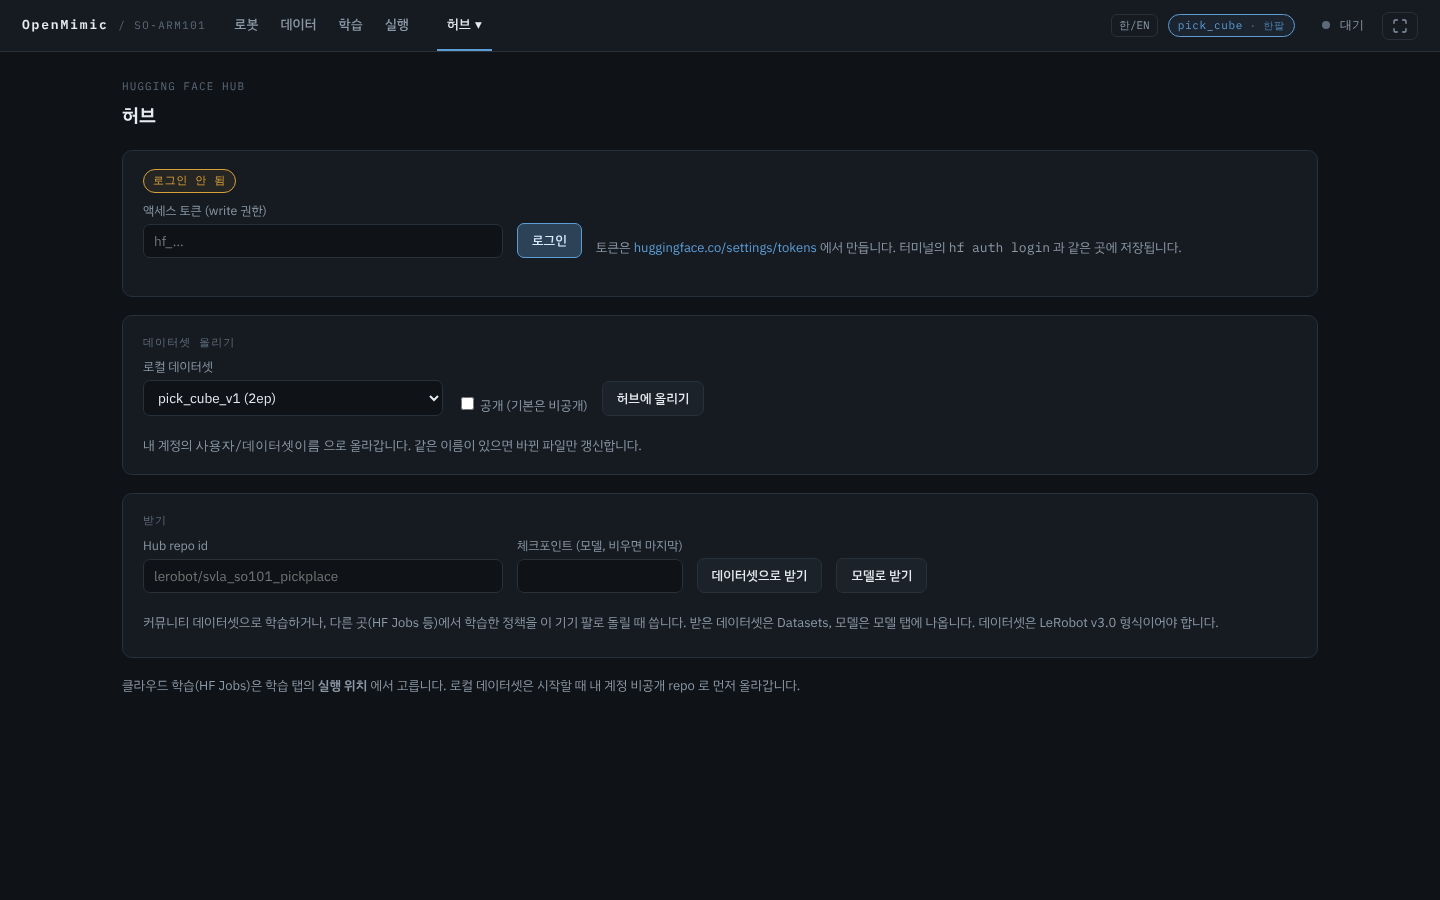
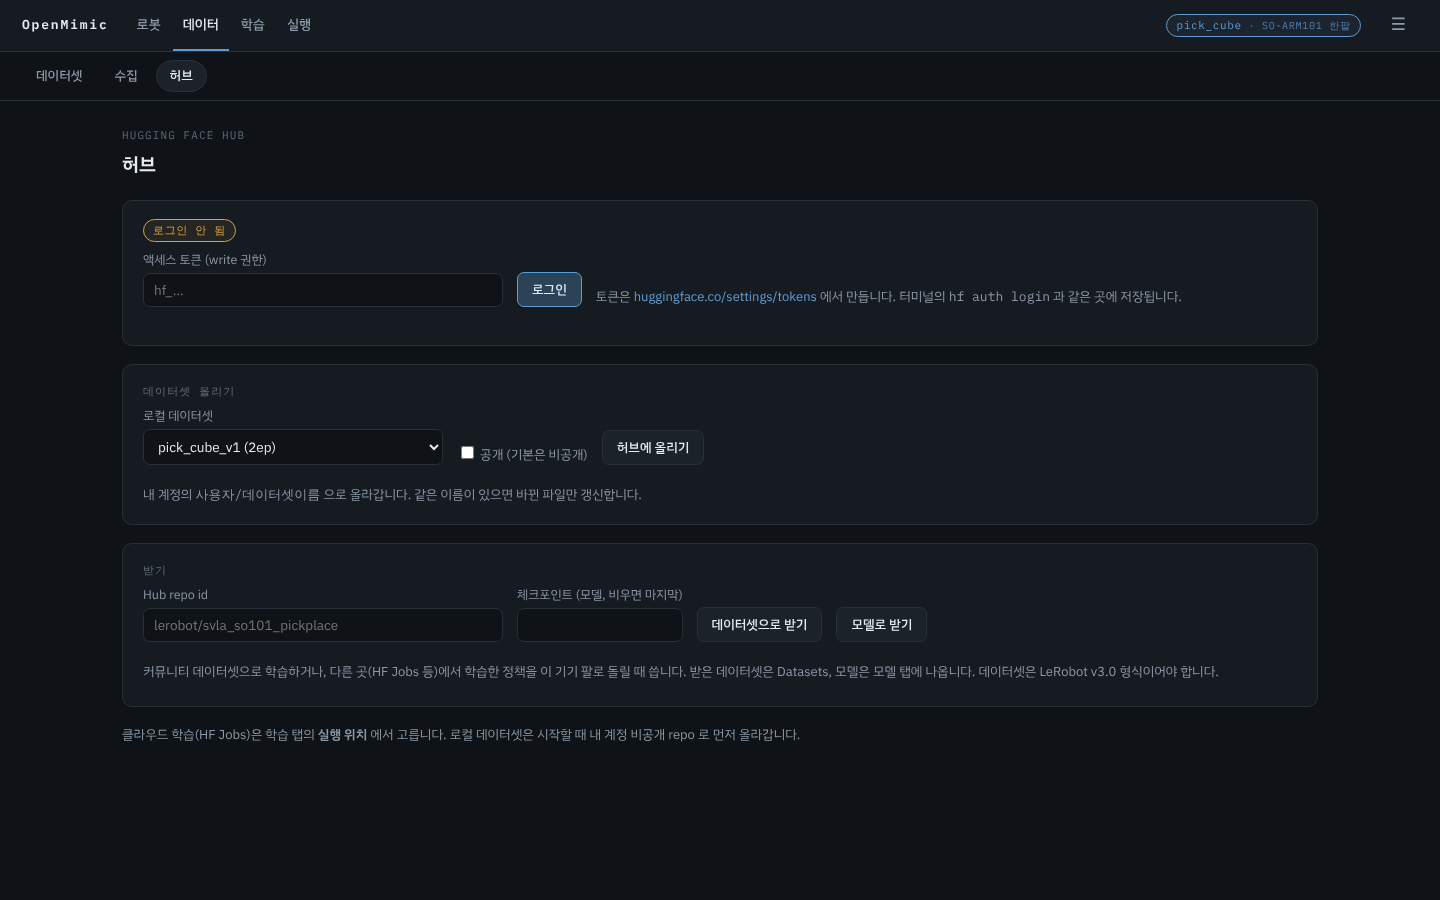
상단바 정리: 오른쪽은 프로젝트 칩과 ☰ 메뉴만, 허브는 데이터 하위 탭으로
- 한/EN 버튼·전체화면 버튼·더보기 메뉴를 오른쪽 끝 ☰ 메뉴 하나로 합침 (프로젝트 · 작업 · 한국어/English · 전체화면)
- 기종 표시를 브랜드 옆에서 프로젝트 칩 안으로 옮김 (예: pick_cube · SO-ARM101 한팔)
- 대기 중에는 상태 표시를 숨기고, 작업이 돌 때만 '● 작업 이름'(누르면 로그)을 띄움
- 허브는 데이터 › 허브 하위 탭으로 이동
- 문서(GUIDE·DEVELOPMENT)와 스크린샷을 새 상단바로 갱신

Claude-Session: https://claude.ai/code/session_01B6FQN7Hy1CAMPD2WzLQir3

diff --git a/main.py b/main.py
@@ -462,7 +462,7 @@ NAV_EN = {"셋업": "Setup", "캘리브레이션": "Calibration", "제어": "Con
           "정책": "Policy", "배치": "Batch", "step 수": "Steps", "녹화": "Recording", "캘리브레이션": "Calibration",
           # 큰 탭·하위 탭
           "데이터": "Data", "포트·카메라": "Ports & cameras", "새 학습": "New training", "셋업 마법사": "Setup wizard",
-          "끝남": "Done", "실행 중": "Running"}
+          "끝남": "Done", "실행 중": "Running", "전체화면": "Fullscreen"}
 _NAV_RE = re.compile(r'(<span class=(?:tl|jobk)[^>]*>|<h2>|<b class=gsname>|<th[^>]*>|<p class=eyebrow>|<label class=f>'
                      r'|<a class=btnlink [^>]*>|<a href="/[^"]*">)'
                      r'([^<]+?)( ?</span>| ?</h2>| ?</b>| ?</th>| ?</p>| <| ?</a>)')
@@ -2711,6 +2711,12 @@ a{color:var(--accent);text-decoration:none} a:hover{text-decoration:underline}
 .navmenu a{display:block;padding:8px 12px;border-radius:6px;color:var(--muted);font-size:13.5px}
 .navmenu a:hover{background:var(--surface2);color:var(--text);text-decoration:none}
 .navmenu a.on{color:var(--text)}
+.appmenu>summary{font-size:17px;padding:0 12px;font-family:var(--sans)}
+.appmenu .navmenu{left:auto;right:0;min-width:180px}
+.navmenu button{display:block;width:100%;text-align:left;padding:8px 12px;border:0;border-radius:6px;background:transparent;
+  color:var(--muted);font-size:13.5px;font-weight:400;cursor:pointer}
+.navmenu button:hover{background:var(--surface2);color:var(--text)}
+.statuscluster .jobtxt{display:inline-flex;align-items:center;gap:6px}
 .nav a{display:flex;align-items:center;padding:0 14px;color:var(--muted);
   border-bottom:2px solid transparent;font-weight:500;font-size:13.5px}
 .nav a:hover{color:var(--text);text-decoration:none}
@@ -2718,9 +2724,8 @@ a{color:var(--accent);text-decoration:none} a:hover{text-decoration:underline}
 .statuscluster{margin-left:auto;display:flex;align-items:center;gap:10px;flex:0 0 auto;white-space:nowrap;
   font-family:var(--mono);font-size:12px;color:var(--muted)}
 .statuscluster a.chip{display:inline-flex;align-items:center;gap:5px;color:inherit;text-decoration:none}
-.statuscluster a.chip .badge{max-width:14em;overflow:hidden;text-overflow:ellipsis;white-space:nowrap}
+.statuscluster a.chip .badge{max-width:24em;overflow:hidden;text-overflow:ellipsis;white-space:nowrap}
 @media(max-width:700px){ .statuscluster a.chip .badge{max-width:6.5em} }
-.fsbtn{flex:0 0 auto}
 .chipsub{opacity:.75;font-size:.92em}
 button.fixbadge{cursor:pointer;font:inherit;font-size:11px;padding:2px 8px;line-height:1.4}
 button.fixbadge:hover{filter:brightness(1.25)}
@@ -2744,8 +2749,6 @@ button.fixbadge:hover{filter:brightness(1.25)}
 .warnbar{background:rgba(217,161,59,.12);border-bottom:1px solid rgba(217,161,59,.5);color:var(--warn);
   padding:8px 22px;font-size:13px;line-height:1.5;overflow-wrap:anywhere}
 .jobtxt{color:inherit;overflow:hidden;text-overflow:ellipsis;min-width:0}
-.langbtn{font-family:var(--mono);font-size:11px;color:var(--muted);border:1px solid var(--line);border-radius:6px;padding:2px 7px;text-decoration:none}
-.langbtn:hover{color:var(--text);border-color:var(--accent);text-decoration:none}
 @media(max-width:1600px){ .statuscluster .jobid{display:none} .nav a{padding:0 10px} .appbar{gap:18px} }
 @media(max-width:1350px){ .nav a{padding:0 8px} }
 @media(max-width:1300px) and (min-width:821px){ .brand small{display:none} .nav a{padding:0 6px;font-size:13px}
@@ -2876,9 +2879,6 @@ a.btnlink.primary{background:var(--accent-dim);border-color:var(--accent);color:
   th,td{padding:8px 9px}
   th{white-space:nowrap}
 }
-.fsbtn{padding:5px 9px;font-size:15px;line-height:1;background:transparent;
-  border-color:var(--line);color:var(--muted);display:inline-flex;align-items:center}
-.fsbtn:hover{color:var(--text);border-color:var(--accent)}
 </style>
 <script>
 document.addEventListener('click',function(e){
@@ -2930,37 +2930,32 @@ def row_menu(items):
 NAV_GROUPS = [
     ("robot", "로봇", "/setup", [("/setup/wizard", "셋업 마법사", "wz"), ("/setup", "포트·카메라", "st"),
                                  ("/calib", "캘리브레이션", "cb"), ("/control", "제어", "ct")]),
-    ("data", "데이터", "/", [("/", "데이터셋", "ds"), ("/collect", "수집", "co")]),
+    ("data", "데이터", "/", [("/", "데이터셋", "ds"), ("/collect", "수집", "co"), ("/hub", "허브", "hb")]),
     ("train", "학습", "/train", [("/train", "새 학습", "tr"), ("/models", "모델", "md")]),
     ("run", "실행", "/rollout", [("/rollout", "실행", "ro")]),
 ]
 
 
 def nav_html(active=""):
+    """상단바: 브랜드 · 큰 탭 4개 | 열린 프로젝트 칩 · (문제일 때만) 포트 미설정 · (실행 중일 때만) 작업 표시 · ☰ 메뉴.
+    프로젝트 목록은 칩, 작업 목록·한/영·전체화면은 ☰ 메뉴, 허브는 데이터 › 허브 하위 탭에 있습니다."""
     running = [j for j in jobs_index() if j["alive"] and j["kind"] != "sim"]     # 예전 판의 가상 장치 작업은 숨김
     if any_arm_connected():
         running = [{"id": "manual-control", "kind": "control"}] + running
-    if running:
+    pname, _ = active_project()
+    arms = "양팔" if BIMANUAL else "한팔"
+    right = (f'<a href="/projects" class=chip title="열린 프로젝트 — 누르면 프로젝트 목록 (장비 구성: {esc(env_name())})">'
+             f'<span class="badge{" b-run" if pname else ""}">{esc(pname) if pname else "프로젝트 없음"}'
+             f'<span class=chipsub> · {esc(kind()["label"])} {arms}</span></span></a>')
+    if not ports_configured():         # 문제가 있을 때만 뜨는 칩
+        right += '<a href="/setup/wizard" title="셋업 마법사에서 포트를 정하세요"><span class="badge b-warn">포트 미설정</span></a>'
+    if running:                        # 대기 중에는 아무것도 띄우지 않습니다
         j = running[0]
         extra = f' +{len(running) - 1}' if len(running) > 1 else ''
         label = JOB_KIND_LABEL.get(j["kind"], j["kind"])
-        cluster = (f'<div class=statuscluster><span class="dot live"></span>'
-                   f'<a href="/jobs/{esc(j["id"])}" class=jobtxt title="실행 중인 작업 — {esc(j["id"])}">'
-                   f'<span class=jobk>{esc(label)}</span><span class=jobid> · {esc(j["id"])}</span>{extra}</a></div>')
-    else:
-        cluster = '<div class=statuscluster><span class=dot></span><span class=jobk title="실행 중인 작업 없음">대기</span></div>'
-    pname, _ = active_project()
-    # 상단 칩은 '지금 무엇을 열었나' 하나만 — 프로젝트(= 장비 구성 한 벌). 한팔/양팔은 그 안에 작게, 환경 이름은 툴팁에만.
-    arms = "양팔" if BIMANUAL else "한팔"
-    mode_badge = (f'<a href="/projects" class=chip title="열린 프로젝트 — 누르면 프로젝트 목록 (장비 구성: {esc(env_name())})">'
-                  f'<span class="badge{" b-run" if pname else ""}">{esc(pname) if pname else "프로젝트 없음"}'
-                  f'<span class=chipsub> · {arms}</span></span></a> ')
-    if I18N_FILE.is_file():            # 영어 사전이 있을 때만 한/영 버튼
-        mode_badge = '<a href="/lang" class=langbtn title="한국어 / English">한/EN</a> ' + mode_badge
-    if not ports_configured():         # 문제가 있을 때만 뜨는 칩
-        mode_badge += '<a href="/setup/wizard" title="셋업 마법사에서 포트를 정하세요"><span class="badge b-warn">포트 미설정</span></a> '
-    cluster = cluster.replace('<div class=statuscluster>',
-                              f'<div class=statuscluster>{mode_badge}&nbsp;')
+        href = "/jobs" if j["kind"] == "control" else f'/jobs/{esc(j["id"])}'
+        right += (f'<a href="{href}" class=jobtxt title="실행 중인 작업 — {esc(j["id"])}"><span class="dot live"></span>'
+                  f'<span class=jobk>{esc(label)}</span><span class=jobid> · {esc(j["id"])}</span>{extra}</a>')
 
     def tab(href, label, key):
         return f'<a href="{href}"{" class=on" if key == active else ""}><span class=tl>{label}</span></a>'
@@ -2971,18 +2966,15 @@ def nav_html(active=""):
     sub = ""
     if group and len(group[3]) > 1:
         sub = ('<div class=subnav>' + "".join(tab(h, lb, k) for h, lb, k in group[3]) + '</div>')
-    more_items = [("/projects", "프로젝트", "pj"), ("/hub", "허브", "hb"), ("/jobs", "작업", "jb")]
-    cur = next((lb for _, lb, k in more_items if k == active), "")
-    more = (f'<details class=navmore{" data-on=1" if cur else ""}><summary><span class=tl>{cur or "더보기"}</span> ▾</summary><div class=navmenu>'
-            + "".join(f'<a href="{h}"{" class=on" if k == active else ""}><span class=tl>{lb}</span></a>' for h, lb, k in more_items)
-            + '</div></details>')
-    return (f'<div class=appbar><div class=brand>OpenMimic <a href="/setup/wizard" title="기종 바꾸기 — 셋업 마법사"><small>/ {esc(kind()["label"])}</small></a></div>'
-            f'<div class=nav>{tabs}</div>{more}{cluster}'
-            f'<button class=fsbtn title="전체화면" aria-label="전체화면" onclick="toggleFS()">'
-            f'<svg width="16" height="16" viewBox="0 0 24 24" fill="none" stroke="currentColor" '
-            f'stroke-width="2" stroke-linecap="round" stroke-linejoin="round">'
-            f'<path d="M8 3H5a2 2 0 0 0-2 2v3M16 3h3a2 2 0 0 1 2 2v3M8 21H5a2 2 0 0 1-2-2v-3M16 21h3a2 2 0 0 0 2-2v-3"/>'
-            f'</svg></button></div>' + sub
+    items = [f'<a href="{h}"{" class=on" if k == active else ""}><span class=tl>{lb}</span></a>'
+             for h, lb, k in (("/projects", "프로젝트", "pj"), ("/jobs", "작업", "jb"))]
+    if I18N_FILE.is_file():            # 영어 사전이 있을 때만 한/영 전환
+        items.append('<a href="/lang">한국어 / English</a>')
+    items.append('<button type=button onclick="toggleFS()"><span class=tl>전체화면</span></button>')
+    menu = (f'<details class="navmore appmenu"{" data-on=1" if active in ("pj", "jb") else ""}>'
+            f'<summary aria-label="더 보기 메뉴">☰</summary><div class=navmenu>{"".join(items)}</div></details>')
+    return (f'<div class=appbar><div class=brand><a href="/">OpenMimic</a></div>'
+            f'<div class=nav>{tabs}</div><div class=statuscluster>{right}</div>{menu}</div>' + sub
             + (f'<div class=warnbar>{esc(calib_root_warning())}</div>' if calib_root_warning() else ''))
 
 

diff --git a/docs/GUIDE.md b/docs/GUIDE.md
@@ -43,14 +43,14 @@
 | 큰 탭 | 하위 탭 |
 |---|---|
 | 로봇 | 셋업 마법사 · 포트·카메라 · 캘리브레이션 · 제어 |
-| 데이터 | 데이터셋 · 수집 |
+| 데이터 | 데이터셋 · 수집 · 허브 |
 | 학습 | 새 학습 · 모델 |
 | 실행 | — |
-| 더보기 | 프로젝트 · 허브 · 작업 |
 
 - 목록 줄마다 보이는 버튼은 하나뿐이고(예: 모델의 **실행**), 다운로드·내보내기·삭제 같은 나머지는 줄 끝 **⋯** 메뉴에 있습니다
 - 자주 안 쓰는 설정과 긴 설명은 **▸** 로 접혀 있습니다
-- 위 오른쪽 칩은 열린 **프로젝트**(와 한팔/양팔) 하나이고, 포트가 비어 있을 때만 **포트 미설정** 이 더 뜹니다
+- 위 오른쪽에는 열린 **프로젝트** 칩(기종·한팔/양팔 표시, 누르면 프로젝트 목록)과 **☰ 메뉴**(작업 목록 · 한국어/English · 전체화면)만 있습니다.
+  포트가 비어 있으면 **포트 미설정**, 수집·학습 같은 작업이 돌고 있으면 **● 작업 이름**(누르면 로그)이 더 뜹니다
 - 먼저 해야 할 일이 남아 있으면(예: 포트 미설정, 데이터셋 없음) 그 화면의 시작 버튼이 꺼지고 **어디로 가면 되는지 큰 버튼**이 뜹니다
 
 ### 로봇 › 포트·카메라
@@ -156,7 +156,10 @@
 |---|---|
 | ![](img/rollout.png) | ![](img/rollout_live.png) |
 
-### 더보기 — 프로젝트 · 허브 · 작업
+### 프로젝트 · 허브 · 작업
+
+프로젝트는 위 오른쪽 프로젝트 칩, 허브는 **데이터 › 허브**, 작업은 **☰ → 작업** 에서 엽니다.
+
 
 - **프로젝트** — 태스크 하나를 묶는 단위(태스크 설명, 프로젝트 전용 환경, 데이터셋, 모델). 새 프로젝트를 만들면 같은 이름의 빈 환경
   (기종·한팔/양팔만 정하고 포트·카메라는 비움, 캘리브 id 는 `<프로젝트>_follower` 처럼 전용)이 생기고 셋업 마법사로 넘어가 처음부터 연결합니다.
@@ -225,7 +228,7 @@ Intel Core Ultra PC 에서도 셋업·수집·리뷰는 똑같고, **ACT · ACT2
 | 3D 가 안 나옴 | 3D 라이브러리는 레포의 `vendor/` 에 들어 있어 인터넷이 필요 없습니다. 브라우저가 WebGL 을 지원하는지(하드웨어 가속 켜짐) 확인하세요 |
 | 인터넷 없이 쓰기 | 설치가 끝나면 셋업·수집·학습·실행 모두 오프라인으로 됩니다 (설치 때 ACT 의 ResNet18 ImageNet 가중치까지 받아 둠). 처음 한 번 인터넷이 필요한 것은 선택 기능뿐입니다 — SmolVLA 사전학습 모델, ACT2 의 DINOv2 백본, HF Jobs·허브. 웹 글꼴을 못 받으면 시스템 글꼴로 보입니다 |
 | 카메라 여러 대가 끊김 | 로봇 › 포트·카메라 → 카메라 **형식** 을 MJPG 로, 카메라는 PC 본체 포트에 |
-| "다른 작업 실행 중" / "실행 중: manual-control" | 제어 탭이 열려 있거나(다른 기기·브라우저 포함 — 닫으면 풀림) 수집·감시·캘리브레이션이 도는 중 — 더보기 → 작업에서 끝내기. 학습은 수집·실행만 막고, 셋업·캘리브레이션·제어·환경 전환은 학습 중에도 됩니다 |
+| "다른 작업 실행 중" / "실행 중: manual-control" | 제어 탭이 열려 있거나(다른 기기·브라우저 포함 — 닫으면 풀림) 수집·감시·캘리브레이션이 도는 중 — ☰ → 작업에서 끝내기. 학습은 수집·실행만 막고, 셋업·캘리브레이션·제어·환경 전환은 학습 중에도 됩니다 |
 | 수집이 시작하자마자 끝남 | 수집 화면에 남은 오류와 로그를 보세요. 에피소드를 하나도 저장하지 않은 새 데이터셋은 자동으로 지워지므로 같은 이름으로 다시 시작하면 됩니다 |
 | 데이터셋에 "마무리 안 됨" | 데이터셋 목록의 **복구** |
 | 실행이 바로 끝남 | 실행 화면의 **원인 추정** 과 로그 |

diff --git a/docs/GUIDE.en.md b/docs/GUIDE.en.md
@@ -44,14 +44,14 @@ The four main tabs at the top follow the work order: **Robot · Data · Training
 | Main tab | Sub-tabs |
 |---|---|
 | Robot | Setup wizard · Ports & cameras · Calibration · Control |
-| Data | Datasets · Collect |
+| Data | Datasets · Collect · Hub |
 | Training | New training · Models |
 | Rollout | — |
-| More | Projects · Hub · Jobs |
 
 - Each list row shows one button (e.g. **Run** on a model); the rest, such as download, export and delete, are in the **⋯** menu at the end of the row
 - Rarely used settings and long explanations are folded under **▸**
-- The chip at the top right is the open **project** (with single/bimanual); **Port not set** appears only when ports are empty
+- The top right has only the open **project** chip (robot model and single/bimanual; click for the project list) and the **☰ menu**
+  (job list · 한국어/English · fullscreen). **Port not set** appears when ports are empty, and **● job name** (click for its log) while a job such as collection or training runs
 - If something has to be done first (e.g. no port set, no dataset), the start button on that screen is disabled and a **large button shows where to go**
 
 ### Robot › Ports & cameras
@@ -157,7 +157,10 @@ Choose a checkpoint and run autonomously. Before starting, cameras and joint cou
 |---|---|
 | ![](img/rollout.png) | ![](img/rollout_live.png) |
 
-### More — Projects · Hub · Jobs
+### Projects · Hub · Jobs
+
+Open projects from the project chip at the top right, the hub from **Data › Hub**, and jobs from **☰ → Jobs**.
+
 
 - **Projects** — groups one task (task description, its own environment, datasets, models). A new project creates an empty environment with the same name
   (only robot model and single/bimanual are set; ports and cameras are empty; calibration ids are project-specific such as `<project>_follower`)
@@ -227,7 +230,7 @@ The **한/EN** button in the top bar switches Korean ↔ English. Text you type 
 | No 3D view | The 3D library ships in the repo's `vendor/` folder, so no internet is needed. Check that the browser supports WebGL (hardware acceleration on) |
 | Using it without internet | Once installed, setup · collect · training · rollout all work offline (the install also downloads ACT's ResNet18 ImageNet weights). Only optional features need internet the first time — the SmolVLA pretrained model, ACT2's DINOv2 backbone, HF Jobs and the Hub. If the web fonts cannot be loaded, system fonts are used |
 | Several cameras drop out | Robot › Ports & cameras → Cameras **format** to MJPG, and plug cameras into the PC's own ports |
-| "Another job is running" / "Running: manual-control" | The Control tab is open (also on another device or browser — closing it releases the arms), or collection · port watch · calibration is running — finish it in More → Jobs. Training only blocks collection and rollout; setup, calibration, control and switching environments work during training |
+| "Another job is running" / "Running: manual-control" | The Control tab is open (also on another device or browser — closing it releases the arms), or collection · port watch · calibration is running — finish it in ☰ → Jobs. Training only blocks collection and rollout; setup, calibration, control and switching environments work during training |
 | Collection ends right after starting | Read the error and log left on the collection screen. A new dataset with no saved episodes is removed automatically, so you can start again with the same name |
 | Dataset shows "not finalized" | **Repair** in the dataset list |
 | Rollout ends immediately | **Likely cause** on the Rollout screen and the log |
